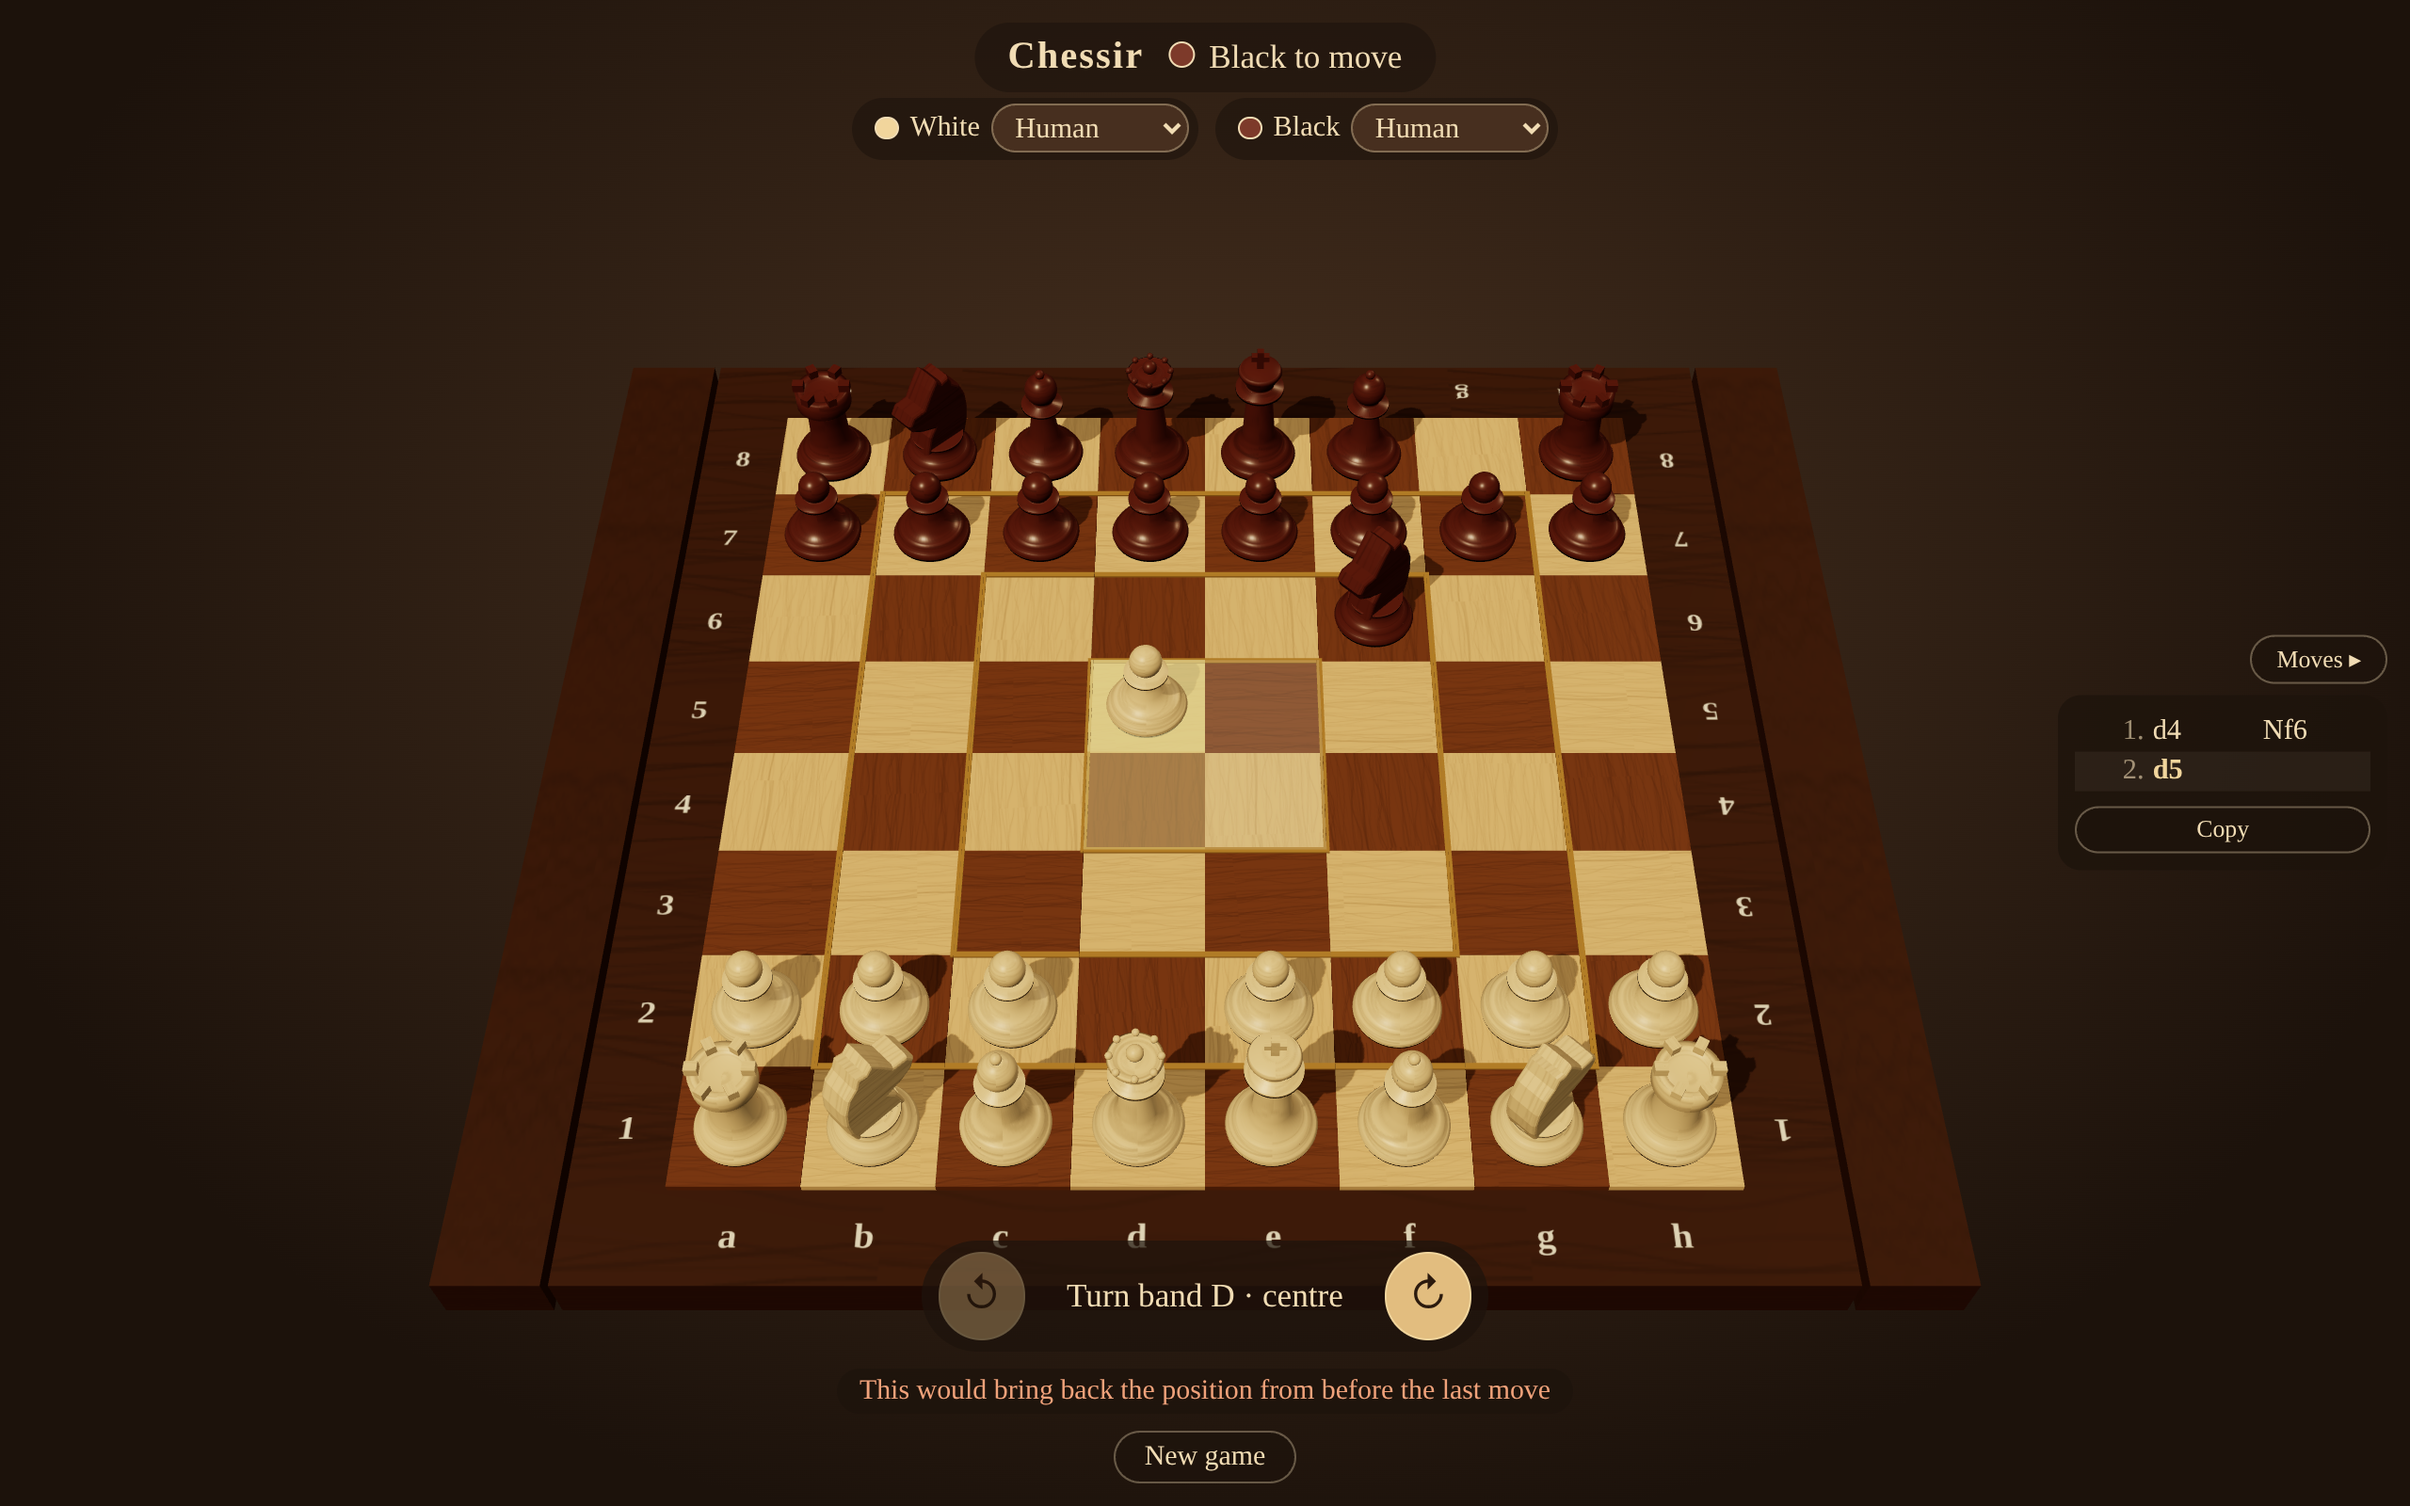
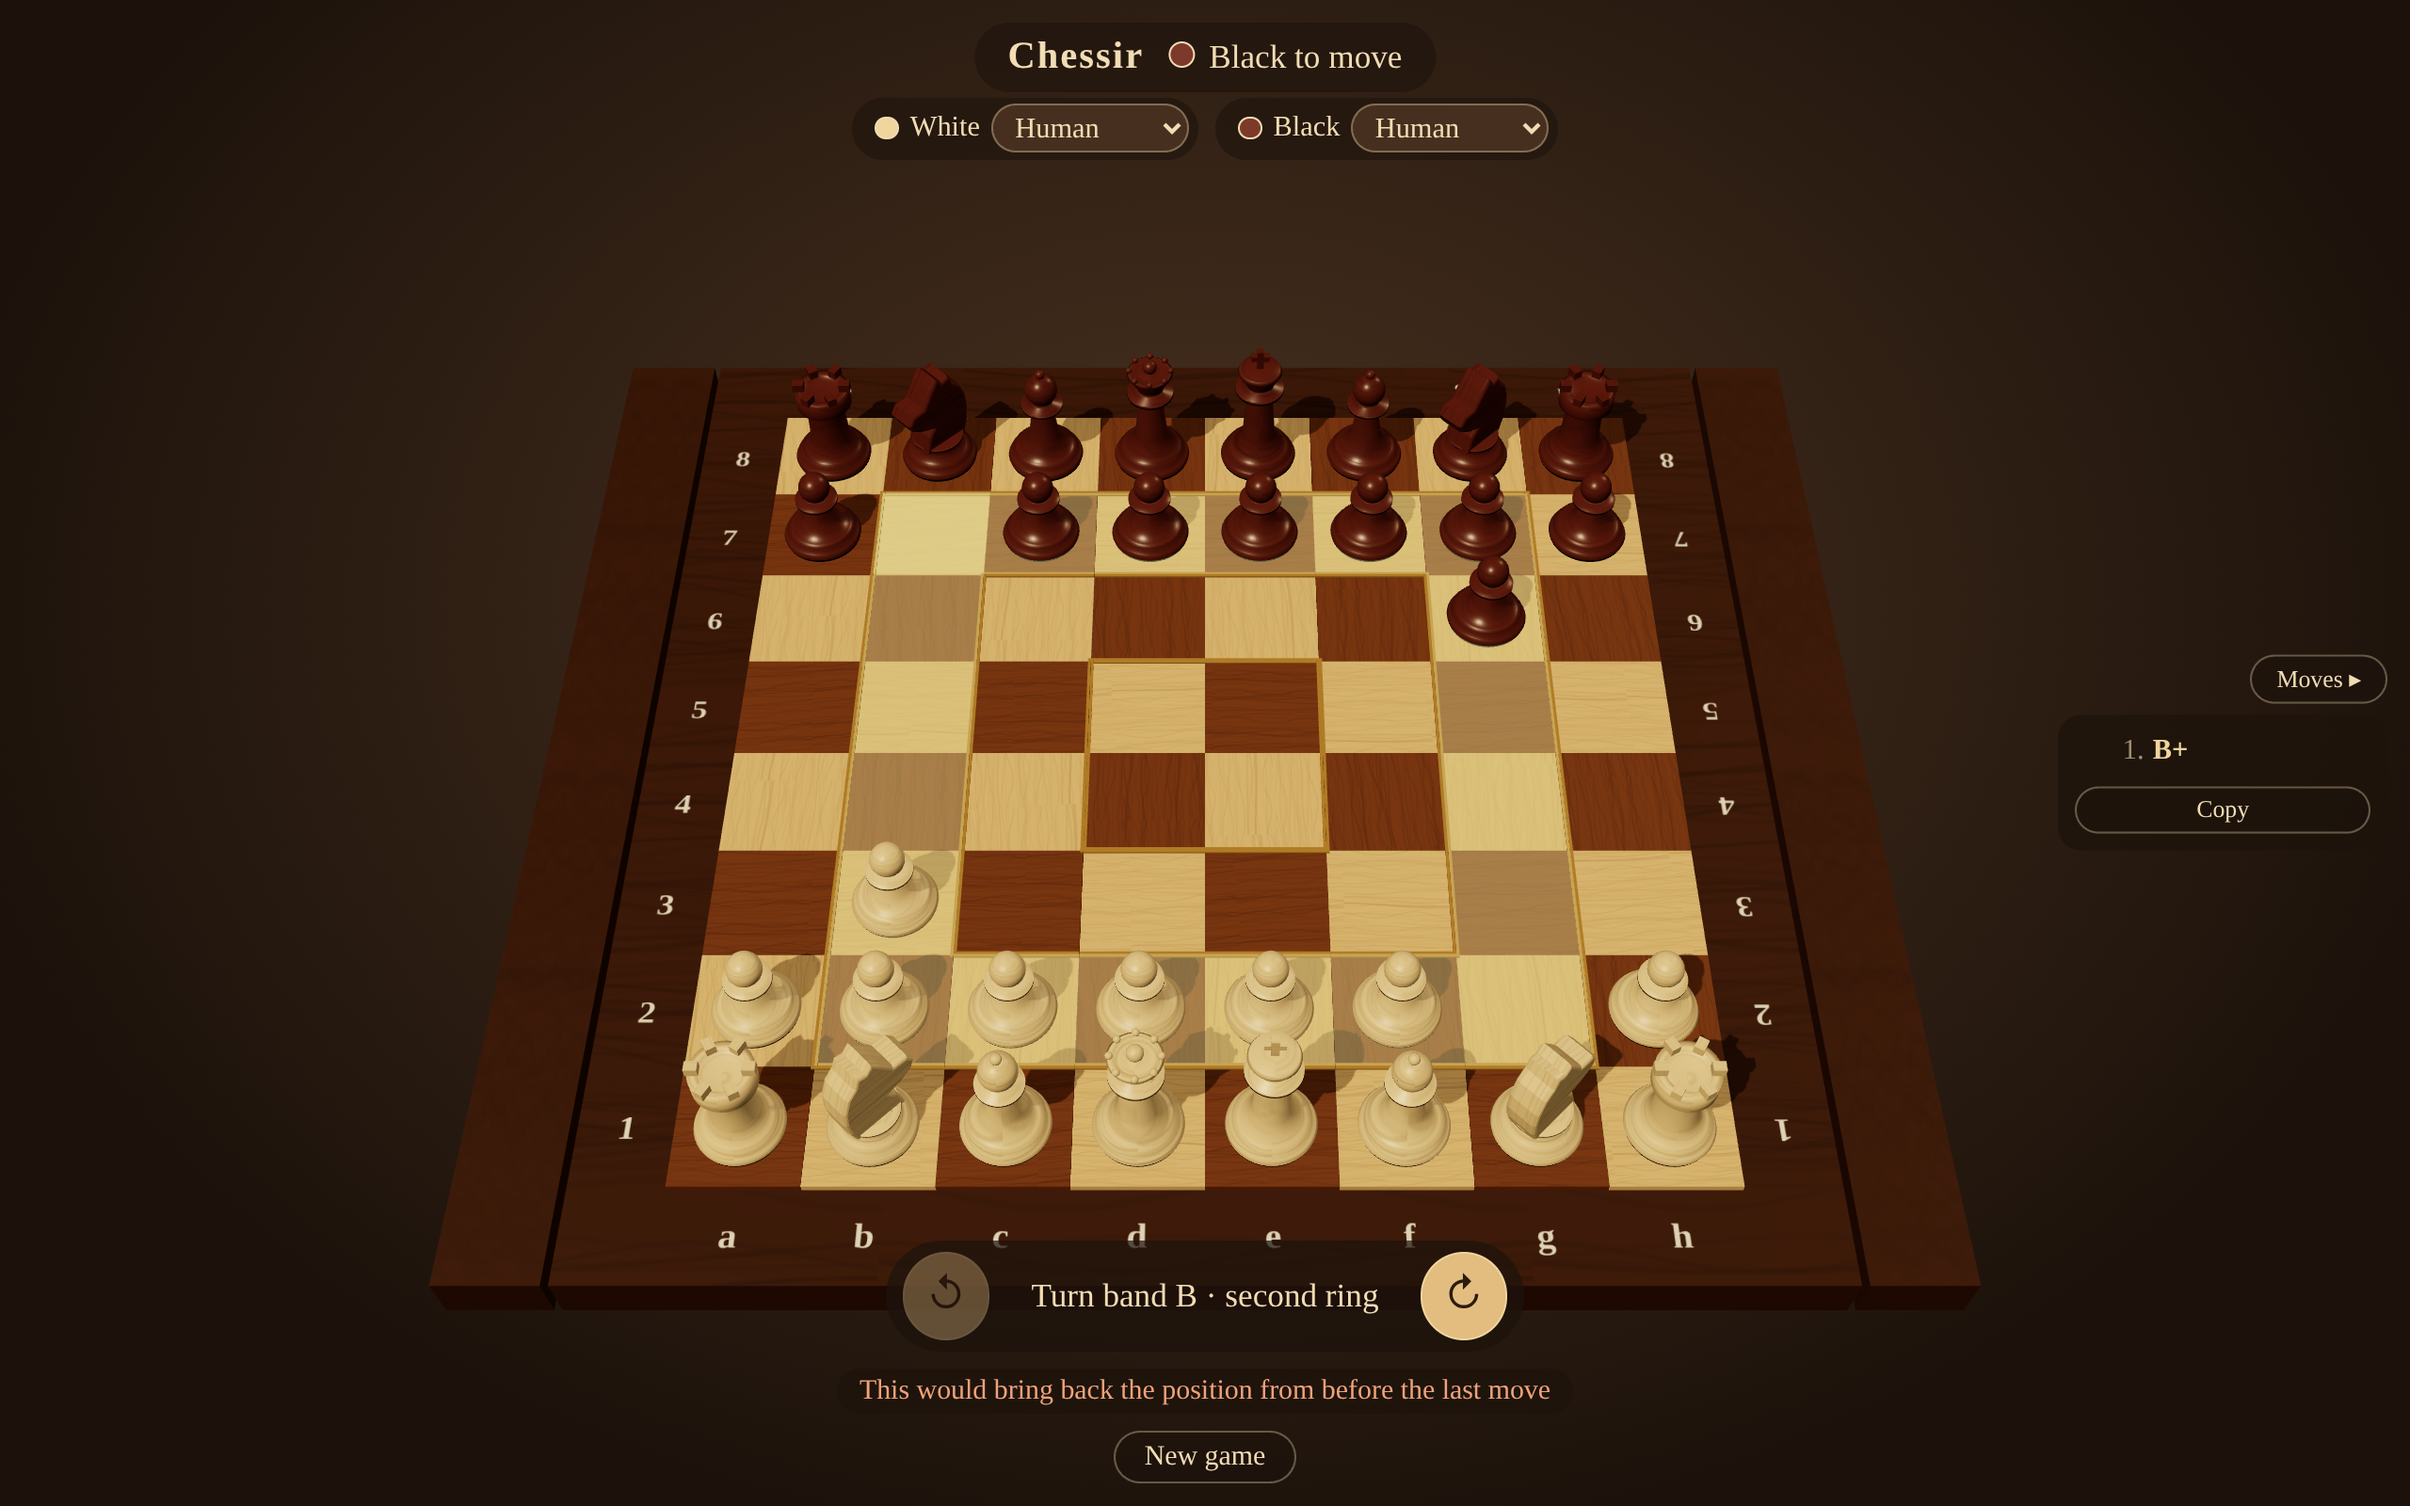
Only allow rotating a band that holds one of your own pieces
A turn should never move only the opponent's pieces. Enforced in the
rules (and so the greedy bot) and in the Deep bot's move generator; the
UI shows the reason under the rotate buttons.

Claude-Session: https://claude.ai/code/session_015uFG4xRiNcvVphM9mva3dM

diff --git a/tests/rules.test.js b/tests/rules.test.js
@@ -171,16 +171,17 @@ describe('band rotation as a move', () => {
     expect(rotationBlockReason(later, 1, -1)).toBeNull();
   });
 
-  it('may not rotate a lone piece back to where the opponent just moved it from', () => {
-    // The rook is the only piece on the outer band; turning it back would restore the old board.
+  it('may only rotate a band that holds at least one of the own pieces', () => {
+    // After a1-a2 the white rook is alone on the outer band, so Black may not turn it.
     const state = move(position({ a1: 'wR', d3: 'wK', e6: 'bK' }), 'a1', 'a2');
-    expect(rotationBlockReason(state, 0, -1)).toMatch(/before the last move/);
-    expect(rotationBlockReason(state, 0, 1)).toBeNull();
+    expect(rotationBlockReason(state, 0, -1)).toMatch(/none of your pieces/);
+    expect(rotationBlockReason(state, 0, 1)).toMatch(/none of your pieces/);
+    expect(legalRotations(state).map((r) => r.band)).toEqual([2, 2]);
   });
 
   it('allows rotations that cannot restore the old board', () => {
     // Two squares up the band is out of reach of a one-square turn.
-    const state = move(position({ a1: 'wR', d3: 'wK', e6: 'bK' }), 'a1', 'a3');
+    const state = move(position({ a1: 'wR', d3: 'wK', h8: 'bK' }), 'a1', 'a3');
     expect(rotationBlockReason(state, 0, -1)).toBeNull();
   });
 

diff --git a/src/engine/position.js b/src/engine/position.js
@@ -410,9 +410,10 @@ export class Position {
     for (let band = 0; band < BAND_COUNT; band++) {
       if (locked & (1 << band)) continue;
       const ring = RINGS[band];
-      let occupied = false;
-      for (let i = 0; i < ring.length && !occupied; i++) occupied = b[ring[i]] !== 0;
-      if (!occupied) continue;
+      let ours = false;
+      for (let i = 0; i < ring.length && !ours; i++)
+        ours = b[ring[i]] !== 0 && (b[ring[i]] & 8) === us;
+      if (!ours) continue;
       for (let d = 0; d < 2; d++) {
         if (!(this.blocked & (1 << (band * 2 + d)))) out[n++] = encode(band, d, 0, ROTATE);
       }

diff --git a/src/game/rules.js b/src/game/rules.js
@@ -230,6 +230,10 @@ export function rotationBlockReason(state, band, direction) {
   if (state.result) return 'The game is over';
   const ring = bandSquares(band);
   if (!ring.some((sq) => state.board[sq])) return 'This band is empty';
+  // Turning a band that carries only enemy pieces would move nothing but theirs.
+  if (!ring.some((sq) => state.board[sq]?.color === state.turn)) {
+    return 'This band holds none of your pieces';
+  }
   if (restoresPreviousBoard(state, band, direction)) {
     return 'This would bring back the position from before the last move';
   }

diff --git a/README.md b/README.md
@@ -11,18 +11,17 @@ Chess where the board itself can turn. Rendered in the browser with [three.js](h
 All classic chess rules apply, plus one extra option. The board is split into four square
 rings ("bands"): the outer ring of 28 squares, then 20, then 12, and the 4 central squares.
 On your turn, instead of moving a piece you may rotate one band by one square in either
-direction; every piece on that band travels with it.
+direction; every piece on that band travels with it. You may only rotate a band that holds at
+least one of your own pieces: a turn of yours should never move only your opponent's pieces.
 
 While your king is in check you may not rotate a band that holds your king or the checking
 piece. You may still escape check by rotating another band so that a piece lands between them.
 As with any move, a rotation may never leave your own king in check.
 
 A rotation may not undo your opponent's last move: you may not rotate a band if that would put
-every piece back exactly where it stood before their move. That covers turning a band straight
-back after your opponent rotated it, and also carrying a piece back with a rotation after it
-moved one square along its band (say a lone pawn on the centre band steps d4-d5, and you turn
-the centre so it lands on d4 again). Any rotation that leads somewhere new is fine. Without this
-rule a game could stall forever with the same two positions taking turns.
+every piece back exactly where it stood before their move. In practice that means turning a band
+straight back right after your opponent rotated it. Any rotation that leads somewhere new is
+fine. Without this rule a game could stall forever with the same two positions taking turns.
 
 Details that follow from the twist:
 
@@ -32,7 +31,8 @@ Details that follow from the twist:
 - A pawn always moves toward the opponent's side. One carried onto its last rank by a rotation
   stays a pawn and cannot move forward until a rotation carries it off again; promotion happens
   only by moving there.
-- An empty band cannot be rotated (that would be a "pass").
+- An empty band cannot be rotated (that would be a "pass"), and neither can one that holds
+  only your opponent's pieces.
 - Because of the no-undo rule, which rotations it blocks are part of the position when counting
   threefold repetition.
 - The game ends in checkmate, or in a draw by stalemate, threefold repetition, the fifty-move
@@ -71,7 +71,9 @@ screens and closed on phones, and remembers your choice.
 
 ![In check: the king's ring is locked](docs/screenshots/in-check.png)
 
-![White's lone centre pawn just stepped d4-d5, so Black may not turn the centre band to carry it back](docs/screenshots/no-undo.png)
+![After 1. e4 the centre band holds only a white pawn, so Black may not turn it](docs/screenshots/own-band.png)
+
+![White just turned band B clockwise, so Black may not turn it straight back](docs/screenshots/no-undo.png)
 
 ## Notation
 
@@ -140,8 +142,8 @@ How it works:
   many squares its pieces reach); pawn structure (passed pawns, doubled and isolated pawns,
   the bishop pair). A pawn carried onto its last rank by a rotation is stuck and counts for
   much less.
-- **Rules.** It follows the full rule set: the no-undo rule, locked bands in check, castling
-  rights lost by rotation, and draws. A draw counts as slightly worse than an even position,
+- **Rules.** It follows the full rule set: the own-piece and no-undo rules for rotations,
+  locked bands in check, castling rights lost by rotation, and draws. A draw counts as slightly worse than an even position,
   so it avoids repeating moves unless it is losing.
 
 How it was chosen: several approaches played each other in bot-vs-bot matches
